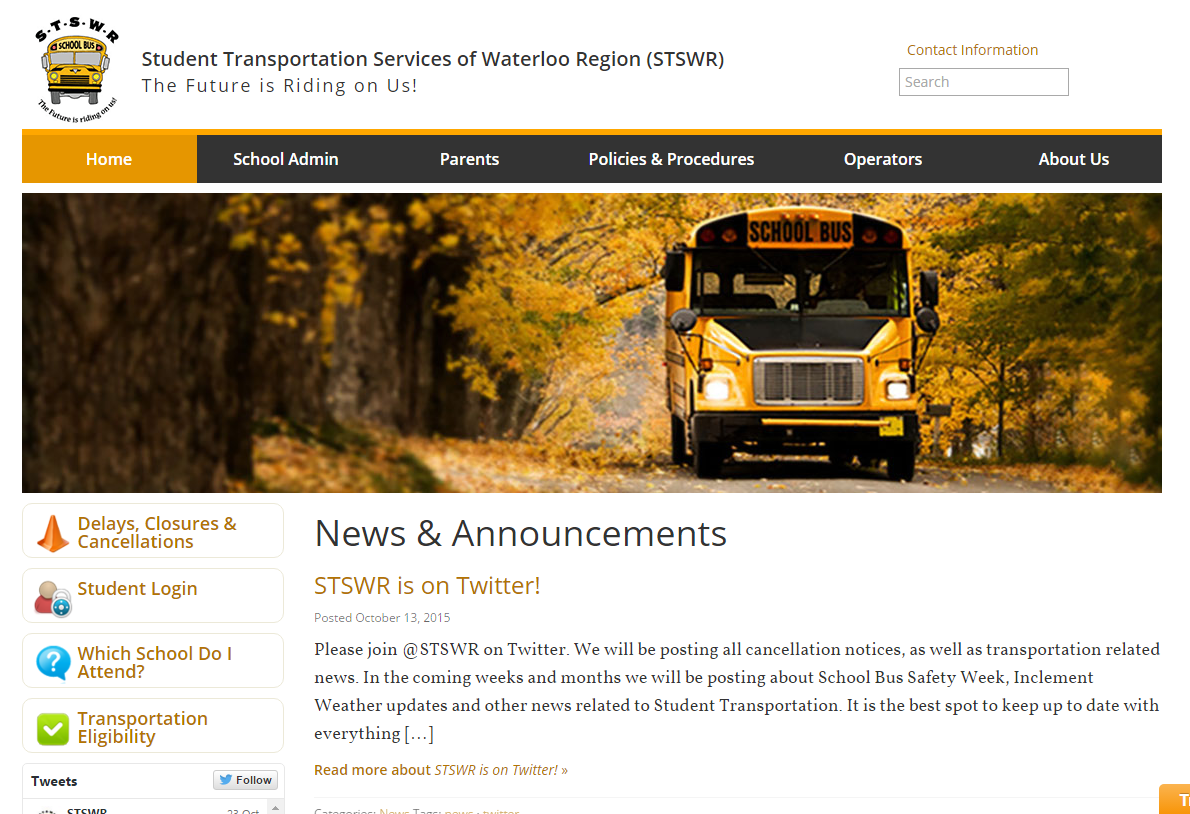
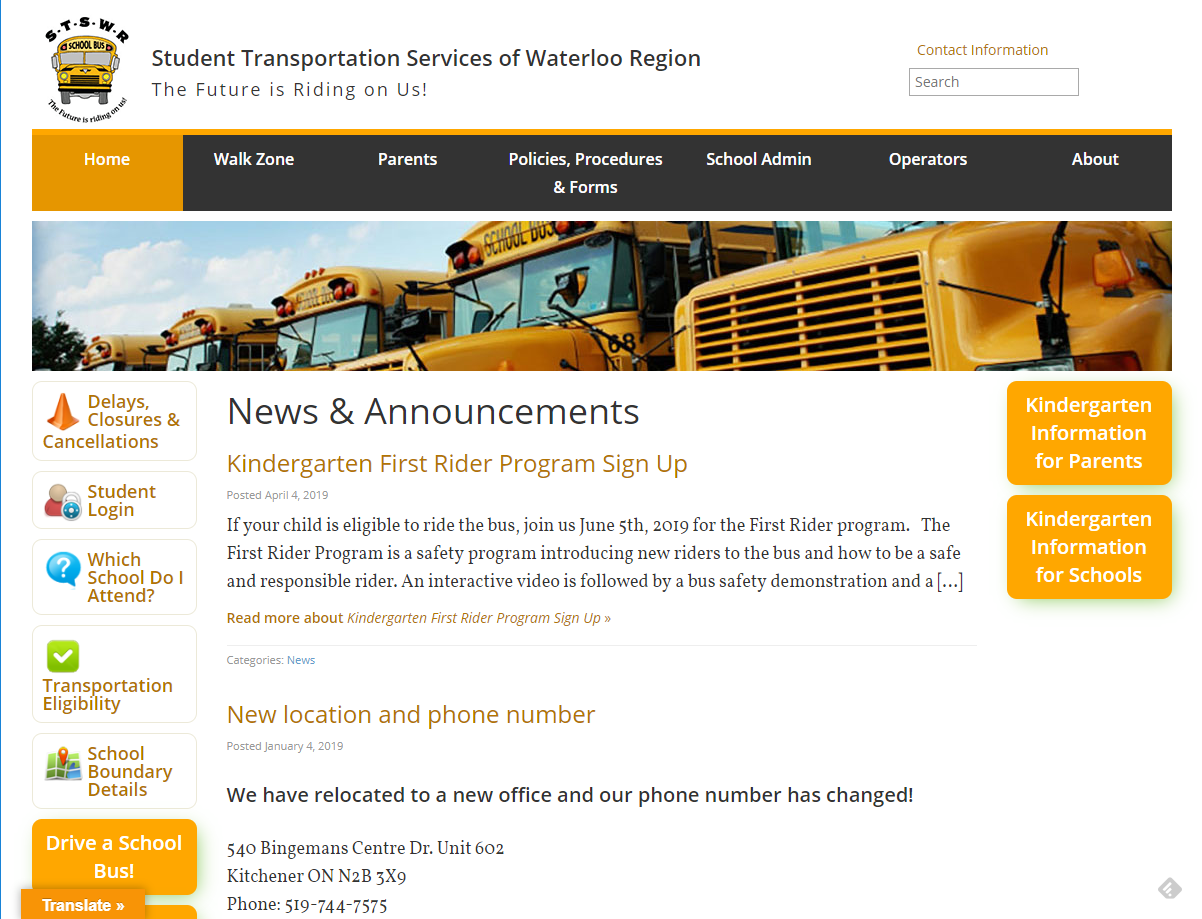
Update functions.php secure links and dashboard widgets
+ new screenshot
+ functions.php updates
+ fix style sheet
+ fix footer target
+ update screenshot

diff --git a/style.css b/style.css
@@ -3,7 +3,7 @@
  Theme URI:    https://github.com/wrdsb/wordpress-theme-stswr/
  Description:  Child theme for STSWR, based on the WRDSB responsive theme.
  Author:       Suzanne Carter
- Author URI:   http://www.wrdsb.ca/
+ Author URI:   https://www.wrdsb.ca/
  Template:     wordpress-theme
  Version:      0.2.4
  License:      GNU General Public License v2 or later
@@ -148,13 +148,15 @@ a {
 }
 
 div.register {
-	background-color: #ffa700;
-}
-
-div.register:hover {
-	-webkit-box-shadow: -5px -5px -20px 7px rgba(122,193,67,1); 
-	-moz-box-shadow: -5px -5px -20px 7px rgba(122,193,67,1); 
-	box-shadow: -5px -5px -20px 7px rgba(122,193,67,1);
+    padding: 10px; 
+    text-align: center; 
+    border-radius: 10px; 
+    background-color: #ffa700;
+    -webkit-box-shadow: 5px 5px 20px -7px rgba(255, 167, 0, 1) !important; 
+    -moz-box-shadow: 5px 5px 20px -7px rgba(255, 167, 0, 1) !important; 
+    box-shadow: 5px 5px 20px -7px rgba(255, 167, 0, 1) !important;
+    max-width: 350px;
+    margin-bottom: 10px;
 }
 
 a:hover, a:focus {

diff --git a/functions.php b/functions.php
@@ -29,7 +29,7 @@ add_action( 'wp_head', 'favicon_link' );
 
 // Fancy Fontage
 function google_fonts() {
-    echo '<link href="http://fonts.googleapis.com/css?family=Vollkorn:400,700|Open+Sans:400italic,400,600" rel="stylesheet" type="text/css" />' . "\n";
+    echo '<link href="https://fonts.googleapis.com/css?family=Vollkorn:400,700|Open+Sans:400italic,400,600" rel="stylesheet" type="text/css" />' . "\n";
 }
 add_action( 'wp_head', 'google_fonts' );
 
@@ -42,3 +42,21 @@ function custom_pdf_name( $name, $sub_id ) {
      return $name; 
   } 
 add_filter( 'ninja_forms_submission_pdf_name', 'custom_pdf_name', 20, 2 );
+
+//Remove dashboard widgets
+function remove_dashboard_meta() {
+        remove_meta_box( 'dashboard_incoming_links', 'dashboard', 'normal' );
+        remove_meta_box( 'dashboard_plugins', 'dashboard', 'normal' );
+        remove_meta_box( 'dashboard_primary', 'dashboard', 'normal' );
+        remove_meta_box( 'dashboard_secondary', 'dashboard', 'normal' );
+        remove_meta_box( 'dashboard_quick_press', 'dashboard', 'side' );
+        remove_meta_box( 'dashboard_recent_drafts', 'dashboard', 'side' );
+        remove_meta_box( 'dashboard_recent_comments', 'dashboard', 'normal' );
+        remove_meta_box( 'dashboard_right_now', 'dashboard', 'normal' );
+        remove_meta_box( 'dashboard_activity', 'dashboard', 'normal');
+        remove_meta_box( 'wpe_dify_news_feed', 'dashboard', 'normal');
+        remove_meta_box( 'jetpack_summary_widget', 'dashboard', 'normal');
+    if (! current_user_can ('manage_options')) {
+    }
+}
+add_action ('admin_init', 'remove_dashboard_meta');

diff --git a/footer.php b/footer.php
@@ -8,7 +8,7 @@
  * @subpackage WRDSB
  */
 ?>
-      <div class="footer" id="contact">
+      <div class="footer" id="address">
         <div class="container">
           <div class="row">
             <div class="col-sm-6 col-md-3">

diff --git a/CHANGES.md b/CHANGES.md
@@ -1,3 +1,10 @@
+## 0.2.5
++ update dashboard widget display
++ update secure links in hosted fonts
++ update .register shadow
++ update screenshot
++ fix footer target
+
 ## 0.2.4
 + change address in footer per Keith Prudham email 2019-01-04
 
